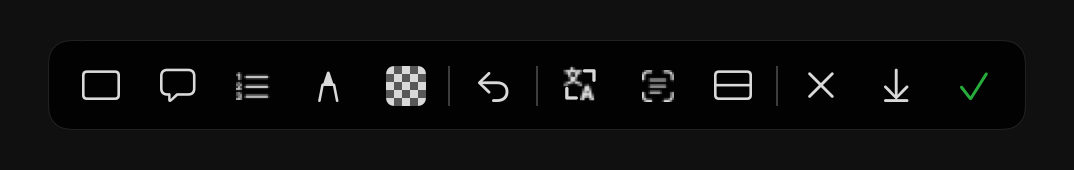
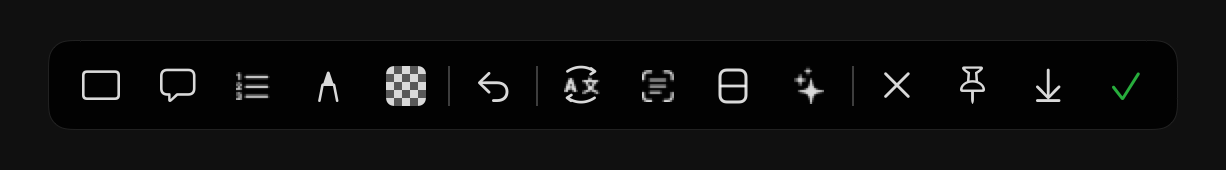
文档: README 补充贴图钉屏与截图问 AI，刷新工具栏配图
超级截图工具列表新增两条（1.6.0）；工具栏截图重渲染，含新增的
截图问 AI（✨）与贴图（📌）按钮。

Changed region(s): [[0.0615, 0.3824, 0.4916, 0.6471], [0.5838, 0.3824, 0.9525, 0.6176], [0.5223, 0.3824, 0.5531, 0.6176]]

diff --git a/README.md b/README.md
@@ -28,6 +28,8 @@
 - **原位翻译**：把图里的外文译成目标语言，直接贴回原图位置。默认走 **macOS 系统翻译**——本机离线、毫秒级出结果（需 macOS 15+，语言包在设置里一键下载）；也可切换成自己填的 AI 接口
 - **提取文字（OCR）**：识别图中文字（中英日韩等自动检测），可编辑修正、一键复制
 - **长截图**：超出一屏的内容自动滚动、逐帧无缝拼接，支持向上 / 向下；鼠标移开即暂停，随时点「停止」收尾；**双击预览可放大检视**拼接质量再决定保存；自动校准「自然滚动/滚轮反转」下的方向
+- **贴图钉屏**（新）：把选区（含标注 / 译文）钉成屏幕上的置顶浮窗，参考资料常驻眼前——可拖动、滚轮缩放、右键复制 / 保存，双击或 Esc 关闭，支持同时钉多张
+- **截图问 AI**（新）：一键把截图发给 AI 闪问的视觉模型提问（"这图里讲了什么？"），刘海自动展开到闪问、光标就位，打字即问（需接支持视觉的模型）
 - **撤销** / **复制到剪贴板** / **保存到桌面**
 
 ![超级截图工具栏](docs/screenshot-superscreenshot.png)